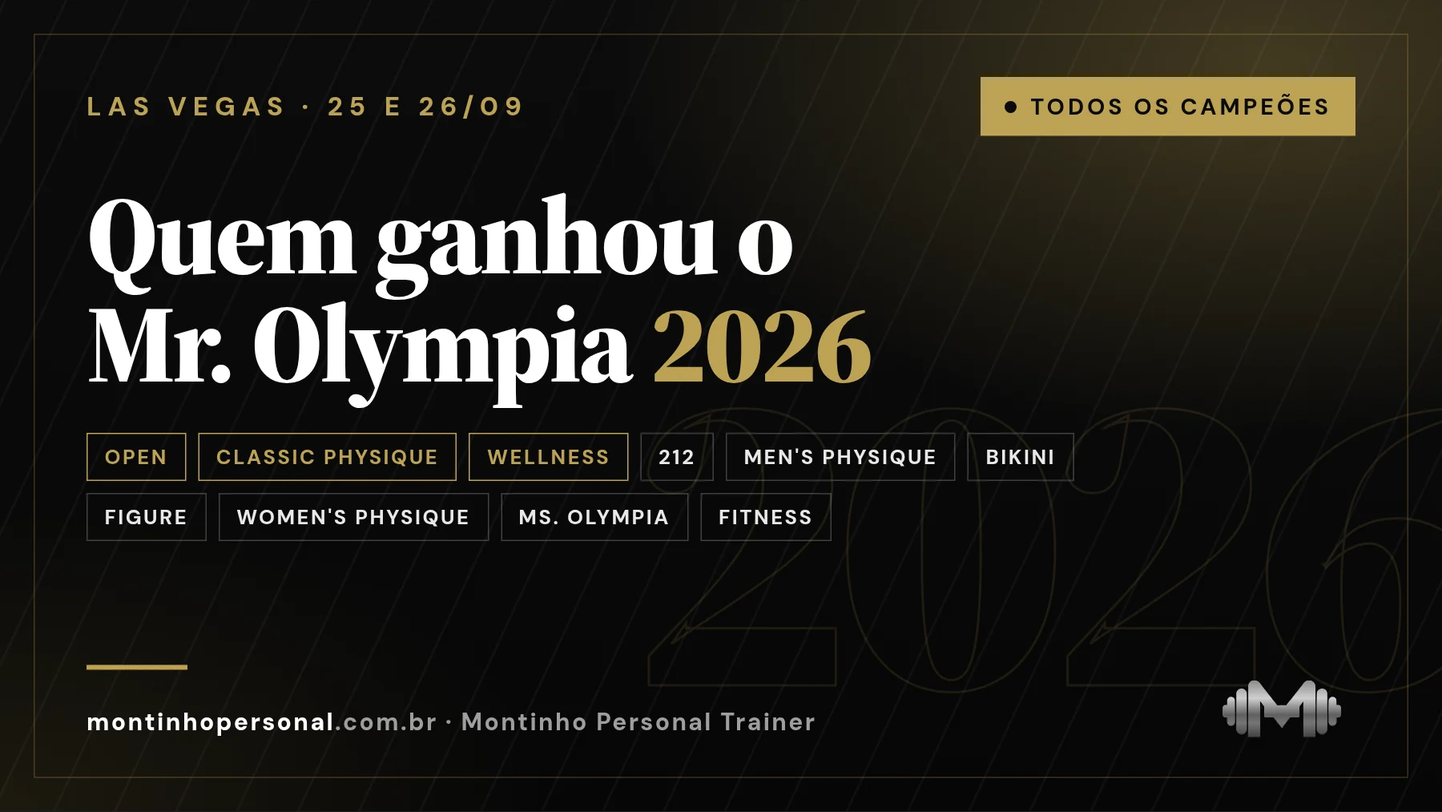
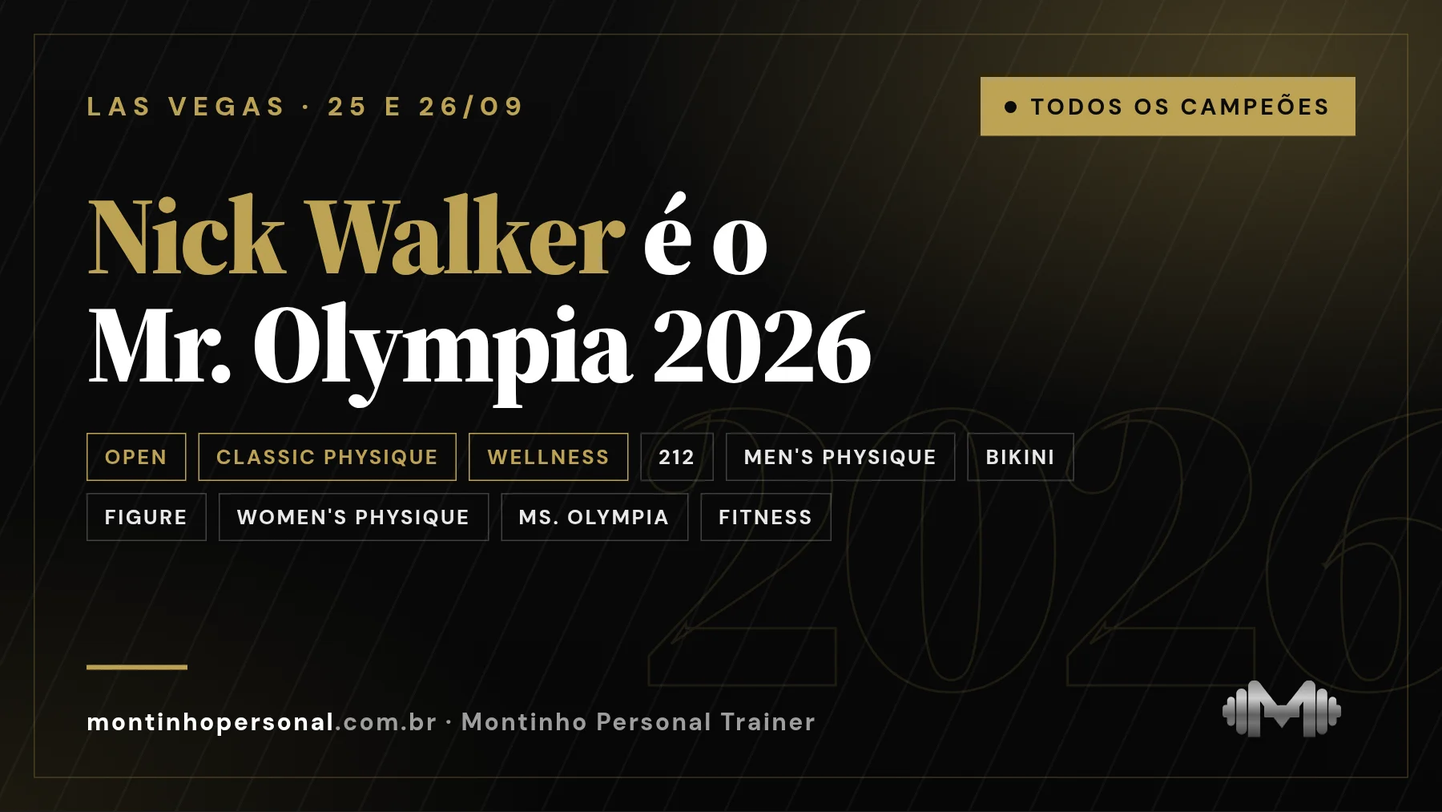
Olympia: Nick Walker é o Mr. Olympia 2026; Men's Physique, Bikini e Fitness decididos
Open: Walker 1º, Dauda 2º, Lunsford 3º (pódio com 2 fontes; 4º a 10º a
definir). Men's Physique: Ryan Terry tetracampeão. Bikini: Jasmine
Gonzalez. Fitness: Michelle Fredua-Mensah. Hub abre com a resposta e lista
todos os campeões. Capas do Open e do hub regeradas. Teste do Open usa a
categoria sem os flags reais.

Claude-Session: https://claude.ai/code/session_01FouRqAub4iiTyoNafYmiNy

Changed region(s): [[0.0622, 0.2142, 0.56, 0.3672], [0.4356, 0.3672, 0.6222, 0.4896]]

diff --git a/lib/olympia-2026.ts b/lib/olympia-2026.ts
@@ -219,22 +219,23 @@ ${FONTES}`,
   /* ───────────────── 3. HUB — QUEM GANHOU ───────────────── */
   {
     slug: "quem-ganhou-mr-olympia-2026",
-    title: "Quem ganhou o Mr. Olympia 2026? Veja campeões e resultados",
-    metaTitle: "Quem Ganhou o Mr. Olympia 2026? Todos os Campeões",
+    title: "Quem ganhou o Mr. Olympia 2026? Nick Walker e todos os campeões",
+    metaTitle: "Quem Ganhou o Mr. Olympia 2026? Nick Walker é o Campeão",
     metaDescription:
-      "Campeões e resultados do Mr. Olympia 2026, categoria por categoria: Open, Classic Physique, Wellness e 212. Atualizado durante as finais de 25 e 26/09.",
+      "Nick Walker é o Mr. Olympia 2026. Veja todos os campeões, categoria por categoria: Classic Physique, Wellness, 212, Men's Physique, Bikini e mais.",
     excerpt:
-      "Todos os campeões do Mr. Olympia 2026 reunidos numa página, atualizada durante as finais de sexta (25) e sábado (26), em Las Vegas.",
+      "Nick Walker venceu o Open e é o Mr. Olympia 2026. Todos os campeões do fim de semana em Las Vegas, categoria por categoria.",
     category: "Fisiculturismo",
     tipo: "noticia",
     date: DATA,
-    updatedAt: "2026-09-26",
+    updatedAt: "2026-09-27",
     readTime: "5 min",
     author: AUTOR,
     tags: ["Mr. Olympia 2026", "campeões", "resultados", "fisiculturismo", "Las Vegas"],
-    content: `<blockquote><p><strong>As seis categorias de sexta estão decididas: Classic Physique, 212, Wellness, Women's Physique, Figure e Ms. Olympia.</strong> O Open, título máximo, é hoje, sábado (26), com a final a partir das 23h (Brasília). Última verificação: 26 de setembro de 2026, 10h (Brasília).</p></blockquote>
-<p>O Mr. Olympia 2026 acontece de 24 a 27 de setembro em Las Vegas, com 322 atletas em 12 categorias — 58 deles brasileiros. As finais são <strong>nesta sexta (25) a partir das 22h</strong> e <strong>no sábado (26) a partir das 23h</strong>, no horário de Brasília. Esta página reúne todos os campeões e é atualizada categoria por categoria, à medida que os resultados oficiais saem.</p>
-${CAPA("quem-ganhou-mr-olympia-2026", "Capa: quem ganhou o Mr. Olympia 2026 — todos os campeões, categoria por categoria: Open, Classic Physique, Wellness, 212, Men's Physique, Bikini e mais")}
+    content: `<blockquote><p><strong>Resultado definido: Nick Walker é o Mr. Olympia 2026.</strong> Última verificação: 27 de setembro de 2026, 3h30 (Brasília).</p></blockquote>
+<p><strong>Nick Walker (EUA) é o campeão do Mr. Olympia 2026.</strong> Ele venceu o Open na noite de sábado, 26 de setembro, em Las Vegas, à frente de Samson Dauda e do atual campeão, Derek Lunsford, que ficou em 3º. É o primeiro Sandow da carreira de Walker, que tinha sido 6º em 2025.</p>
+<p>Os outros campeões do fim de semana: <strong>Niall Darwen</strong> (Classic Physique), <strong>Eduarda Bezerra</strong> (Wellness, bicampeã), <strong>Keone Pearson</strong> (212), <strong>Ryan Terry</strong> (Men's Physique, quarto título seguido), <strong>Jasmine Gonzalez</strong> (Bikini), <strong>Michelle Fredua-Mensah</strong> (Fitness), <strong>Natalia Abraham Coelho</strong> (Women's Physique), <strong>Andrea Shaw</strong> (Ms. Olympia) e <strong>Lola Montez</strong> (Figure). A tabela abaixo reúne todos.</p>
+${CAPA("quem-ganhou-mr-olympia-2026", "Capa: Nick Walker é o Mr. Olympia 2026 — todos os campeões, categoria por categoria: Open, Classic Physique, Wellness, 212, Men's Physique, Bikini e mais")}
 
 <h2>Campeões do Mr. Olympia 2026</h2>
 <table><thead><tr><th>Categoria</th><th>Final</th><th>Campeão(ã) 2026</th><th>Campeão(ã) 2025</th><th>Resultado</th></tr></thead><tbody>
@@ -244,11 +245,11 @@ ${CAPA("quem-ganhou-mr-olympia-2026", "Capa: quem ganhou o Mr. Olympia 2026 — 
 <tr><td>Figure</td><td>Sex 25/09, 22h</td><td><strong>Lola Montez</strong></td><td>Rhea Gayle (GBR)</td><td>Nesta página</td></tr>
 <tr><td>Women's Physique</td><td>Sex 25/09, 22h</td><td><strong>Natalia Abraham Coelho (EUA)</strong></td><td>Natalia Abraham Coelho (EUA)</td><td><a href="/blog/resultado-womens-physique-olympia-2026">Ver resultado</a></td></tr>
 <tr><td>Ms. Olympia</td><td>Sex 25/09, 22h</td><td><strong>Andrea Shaw (EUA)</strong></td><td>Andrea Shaw (EUA)</td><td>Nesta página</td></tr>
-<tr><td>Fitness</td><td>Sáb 26/09, 23h</td><td>A definir</td><td>Michelle Fredua-Mensah (GBR)</td><td>Nesta página</td></tr>
-<tr><td>Men's Physique</td><td>Sáb 26/09, 23h</td><td>A definir</td><td>Ryan Terry (GBR)</td><td><a href="/blog/resultado-mens-physique-olympia-2026">Ver resultado</a></td></tr>
-<tr><td>Bikini</td><td>Sáb 26/09, 23h</td><td>A definir</td><td>Maureen Blanquisco (PHI)</td><td><a href="/blog/resultado-bikini-olympia-2026">Ver resultado</a></td></tr>
+<tr><td>Fitness</td><td>Sáb 26/09, 23h</td><td><strong>Michelle Fredua-Mensah (GBR)</strong></td><td>Michelle Fredua-Mensah (GBR)</td><td>Nesta página</td></tr>
+<tr><td>Men's Physique</td><td>Sáb 26/09, 23h</td><td><strong>Ryan Terry (GBR)</strong></td><td>Ryan Terry (GBR)</td><td><a href="/blog/resultado-mens-physique-olympia-2026">Ver resultado</a></td></tr>
+<tr><td>Bikini</td><td>Sáb 26/09, 23h</td><td><strong>Jasmine Gonzalez</strong></td><td>Maureen Blanquisco (PHI)</td><td><a href="/blog/resultado-bikini-olympia-2026">Ver resultado</a></td></tr>
 <tr><td>Fit Model (estreia)</td><td>Sáb 26/09, 13h30*</td><td>A definir</td><td>—</td><td><a href="/blog/resultado-fit-model-olympia-2026">Ver resultado</a></td></tr>
-<tr><td>Mr. Olympia (Open)</td><td>Sáb 26/09, 23h</td><td>A definir</td><td>Derek Lunsford (EUA)</td><td><a href="/blog/resultado-mr-olympia-open-2026">Ver resultado</a></td></tr>
+<tr><td>Mr. Olympia (Open)</td><td>Sáb 26/09, 23h</td><td><strong>Nick Walker (EUA)</strong></td><td>Derek Lunsford (EUA)</td><td><a href="/blog/resultado-mr-olympia-open-2026">Ver resultado</a></td></tr>
 </tbody></table>
 <p><em>Wheelchair também é decidida no sábado e entra aqui com o resultado oficial. Horários são o início de cada sessão de finais. *A Fit Model tem prévias e final na sessão da manhã de sábado.</em></p>
 
@@ -273,20 +274,21 @@ ${CAPA("quem-ganhou-mr-olympia-2026", "Capa: quem ganhou o Mr. Olympia 2026 — 
 <p>Todos os brasileiros, por dia e categoria, com o resultado de cada um, estão no <a href="/blog/brasileiros-mr-olympia-2026">painel dos brasileiros no Mr. Olympia 2026</a>.</p>
 <ul>
 <li><strong>Ramon Dino</strong> — 3º lugar na Classic Physique 2026; campeão em 2025, primeiro brasileiro a vencer o Mr. Olympia. Pesou 102,5 kg na pesagem oficial (<a href="/blog/ramon-dino-peso-altura">peso, altura e limite</a>).</li>
-<li><strong>Eduarda Bezerra</strong> — atual campeã da Wellness, categoria em que o Brasil venceu todas as cinco edições desde 2021 e tem 19 das 40 inscritas em 2026.</li>
-<li><strong>Isa Pereira Nunes</strong> (campeã Wellness 2024) e <strong>Rayane Fogal</strong> (campeã do Arnold Ohio e do Arnold UK 2026) completam as principais candidatas brasileiras.</li>
+<li><strong>Eduarda Bezerra</strong> — bicampeã da Wellness em 2026; o Brasil venceu as seis edições da categoria desde 2021.</li>
+<li><strong>Isa Pereira Nunes</strong> — 2º lugar na Wellness 2026, na dobradinha brasileira.</li>
 </ul>
 
-<h2>Quem chega como favorito no Open</h2>
-<p>Derek Lunsford (EUA) defende o título de 2025, ano em que não perdeu nenhuma competição. Samson Dauda (campeão de 2024), Andrew Jacked (terceiro em 2025 e invicto desde então), Nick Walker e Martin Fitzwater são os mais citados para o primeiro chamado. Hadi Choopan, vice três vezes seguidas, desistiu em agosto. A análise completa está em <a href="/blog/resultado-mr-olympia-open-2026">resultado do Mr. Olympia Open 2026</a>.</p>
+<h2>Como foi o Open</h2>
+<p>Nick Walker (EUA) venceu, Samson Dauda ficou em 2º e Derek Lunsford, que defendia o título de 2025, em 3º. Hadi Choopan, vice três vezes seguidas, não competiu: desistiu em agosto por problemas de visto. A análise completa está em <a href="/blog/resultado-mr-olympia-open-2026">resultado do Mr. Olympia Open 2026</a>.</p>
 
 ${ACOMPANHE("quem-ganhou-mr-olympia-2026")}
 
 ${CTA_MONTINHO}
 ${FONTES}`,
     faq: [
-      { question: "Quem ganhou o Mr. Olympia 2026?", answer: "Ainda não foi decidido. A final do Mr. Olympia Open é no sábado, 26 de setembro, a partir das 23h (Brasília). O campeão entra nesta página assim que for anunciado." },
-      { question: "Quando são as finais do Mr. Olympia 2026?", answer: "Sexta-feira, 25/09, a partir das 22h (Classic Physique, Wellness, 212, Figure, Women's Physique e Ms. Olympia) e sábado, 26/09, a partir das 23h (Open, Men's Physique, Bikini e Fitness), no horário de Brasília." },
+      { question: "Quem ganhou o Mr. Olympia 2026?", answer: "Nick Walker, dos Estados Unidos, venceu o Open na noite de sábado, 26 de setembro, em Las Vegas. Samson Dauda ficou em 2º e Derek Lunsford, o campeão de 2025, em 3º." },
+      { question: "Quem são os campeões de todas as categorias?", answer: "Open: Nick Walker. Classic Physique: Niall Darwen. Wellness: Eduarda Bezerra. 212: Keone Pearson. Men's Physique: Ryan Terry. Bikini: Jasmine Gonzalez. Fitness: Michelle Fredua-Mensah. Women's Physique: Natalia Abraham Coelho. Ms. Olympia: Andrea Shaw. Figure: Lola Montez." },
+      { question: "Quando foram as finais do Mr. Olympia 2026?", answer: "Sexta-feira, 25/09, a partir das 22h (Classic Physique, Wellness, 212, Figure, Women's Physique e Ms. Olympia) e sábado, 26/09, a partir das 23h (Open, Men's Physique, Bikini e Fitness), no horário de Brasília." },
       { question: "Quantos brasileiros competem no Mr. Olympia 2026?", answer: "58, entre 322 atletas de 12 categorias. Os mais conhecidos são Ramon Dino, na Classic Physique, e Eduarda Bezerra, Isa Pereira Nunes e Rayane Fogal, na Wellness." },
       { question: "Onde ver os resultados do Mr. Olympia 2026?", answer: "Nesta página, atualizada categoria por categoria com base nos anúncios oficiais do Olympia e da IFBB Pro League, e nos artigos específicos de Classic Physique, Wellness e Open." },
     ],
@@ -356,37 +358,39 @@ ${FONTES}`,
   /* ───────────────── 5. OPEN ───────────────── */
   {
     slug: "resultado-mr-olympia-open-2026",
-    title: "Resultado Mr. Olympia Open 2026: campeão, Top 10 e classificação",
-    metaTitle: "Resultado Open Mr. Olympia 2026: Campeão e Top 10",
+    title: "Nick Walker é o Mr. Olympia 2026: resultado do Open e classificação",
+    metaTitle: "Nick Walker Vence o Mr. Olympia 2026: Resultado do Open",
     metaDescription:
-      "Classificação do Open do Mr. Olympia 2026: campeão do Sandow, top 10 e colocações. Final no sábado, 26/09, a partir das 23h (Brasília). Atualizado.",
+      "Nick Walker venceu o Mr. Olympia 2026, com Samson Dauda em 2º e Derek Lunsford em 3º. Veja a classificação do Open e como foi a final.",
     excerpt:
-      "A final do Mr. Olympia Open 2026 é no sábado, 26 de setembro. Derek Lunsford defende o título contra Samson Dauda, Andrew Jacked, Nick Walker e Martin Fitzwater.",
+      "Nick Walker venceu o Mr. Olympia 2026 em Las Vegas. Samson Dauda ficou em 2º e o campeão de 2025, Derek Lunsford, em 3º.",
     category: "Fisiculturismo",
     tipo: "noticia",
     date: DATA,
+    updatedAt: "2026-09-27",
     readTime: "4 min",
     author: AUTOR,
-    tags: ["Mr. Olympia 2026", "Open", "Derek Lunsford", "Samson Dauda", "resultado"],
-    content: `<blockquote><p><strong>O resultado do Mr. Olympia Open 2026 ainda não foi definido.</strong> As prévias aconteceram na sexta à noite; a final é hoje, sábado (26), a partir das 23h (Brasília). Nas prévias, as comparações principais reuniram <strong>Derek Lunsford, Samson Dauda, Andrew Jacked e Nick Walker</strong>, segundo a Fitness Volt e a RepOne — chamado não é resultado, e o campeão só sai na final. Última verificação: 26 de setembro de 2026, 10h (Brasília).</p></blockquote>
-<p>O título máximo do Mr. Olympia 2026 é decidido <strong>no sábado, 26 de setembro</strong>, com a final a partir das <strong>23h (horário de Brasília)</strong>, na Orleans Arena, em Las Vegas. As prévias do Open aconteceram na sessão de sexta à noite. <strong>Derek Lunsford</strong> (EUA) defende o título de 2025 contra 21 atletas na principal categoria da IFBB Pro League, a única sem limite de peso. A classificação completa entra aqui assim que for anunciada.</p>
-${CAPA("resultado-mr-olympia-open-2026", "Capa: resultado do Open do Mr. Olympia 2026 — quem leva o troféu Sandow; Derek Lunsford defende o título na final de sábado, 23h de Brasília")}
+    tags: ["Mr. Olympia 2026", "Open", "Nick Walker", "Samson Dauda", "Derek Lunsford", "resultado"],
+    content: `<blockquote><p><strong>Resultado definido: Nick Walker é o Mr. Olympia 2026.</strong> Última verificação: 27 de setembro de 2026, 3h30 (Brasília).</p></blockquote>
+<p><strong>Nick Walker venceu o Mr. Olympia 2026</strong> na noite de sábado, 26 de setembro, na Orleans Arena, em Las Vegas. O norte-americano, 6º colocado em 2025, conquistou o primeiro Sandow da carreira à frente de <strong>Samson Dauda</strong> (2º), campeão de 2024, e de <strong>Derek Lunsford</strong> (3º), que defendia o título. O Open é a principal categoria da IFBB Pro League e a única sem limite de peso.</p>
+${CAPA("resultado-mr-olympia-open-2026", "Capa: Nick Walker é o Mr. Olympia 2026 — resultado oficial do Open, com Samson Dauda em 2º e Derek Lunsford em 3º")}
 
 <h2>Classificação do Mr. Olympia Open 2026</h2>
-${TABELA_PENDENTE(10)}
-<p><em>Tabela preenchida após a final oficial. Enquanto isso, acompanhe a Classic Physique com Ramon Dino em <a href="/blog/resultado-classic-physique-mr-olympia-2026">resultado da Classic Physique 2026</a>.</em></p>
+<table><thead><tr><th>Posição</th><th>Atleta</th><th>País</th></tr></thead><tbody><tr><td>1º</td><td><strong>Nick Walker</strong></td><td>EUA</td></tr><tr><td>2º</td><td>Samson Dauda</td><td>Nigéria/Reino Unido</td></tr><tr><td>3º</td><td>Derek Lunsford</td><td>EUA</td></tr><tr><td>4º</td><td>A definir</td><td>—</td></tr><tr><td>5º</td><td>A definir</td><td>—</td></tr><tr><td>6º</td><td>A definir</td><td>—</td></tr><tr><td>7º</td><td>A definir</td><td>—</td></tr><tr><td>8º</td><td>A definir</td><td>—</td></tr><tr><td>9º</td><td>A definir</td><td>—</td></tr><tr><td>10º</td><td>A definir</td><td>—</td></tr></tbody></table>
+<p><em>O pódio foi confirmado por duas fontes independentes. Do 4º ao 10º lugar, as posições entram quando também estiverem confirmadas, incluindo a de Leandro Peres, único brasileiro no Open.</em></p>
 
-<h2>Os principais nomes</h2>
+<h2>Quem eram os favoritos</h2>
 <ul>
 <li><strong>Derek Lunsford (EUA)</strong> — campeão em 2023 e 2025. Em 2025 venceu Arnold Classic, Pittsburgh Pro e Olympia, e tornou-se o segundo atleta da história a recuperar o título depois de perdê-lo, ao lado de Jay Cutler.</li>
 <li><strong>Samson Dauda (Nigéria/Reino Unido)</strong> — campeão de 2024, caiu para quarto em 2025. Venceu o Europa Pro em 13 de setembro, onze dias antes de Las Vegas.</li>
 <li><strong>Andrew Jacked (Nigéria)</strong> — terceiro em 2025 e invicto desde então: Romania Pro 2025, Arnold Classic Ohio e Arnold Classic UK 2026.</li>
-<li><strong>Nick Walker (EUA)</strong> e <strong>Martin Fitzwater (EUA)</strong> — citados para o primeiro chamado pela imprensa especializada.</li>
+<li><strong>Nick Walker (EUA)</strong> — 6º em 2025, era citado para o primeiro chamado; saiu campeão.</li>
+<li><strong>Martin Fitzwater (EUA)</strong> — também citado para o grupo da frente pela imprensa especializada.</li>
 </ul>
-<p><strong>Hadi Choopan</strong> (Irã), vice por três anos seguidos, desistiu em 26 de agosto por problemas de visto — o que abre uma vaga no grupo da frente.</p>
+<p><strong>Hadi Choopan</strong> (Irã), vice por três anos seguidos, desistiu em 26 de agosto por problemas de visto — o que abriu uma vaga no grupo da frente.</p>
 
-<h2>Prévias na sexta, final no sábado</h2>
-<p>Diferente das outras categorias, o Open tem as prévias na <strong>sexta-feira à noite</strong> (na sessão que começa às 22h de Brasília) e a final no <strong>sábado</strong>. O primeiro chamado da sexta costuma antecipar quem briga pelo Sandow, o troféu do campeão; o resultado, só depois das poses e comparações finais de sábado.</p>
+<h2>Das prévias à final</h2>
+<p>O Open teve as prévias na <strong>sexta-feira à noite</strong> e a final no <strong>sábado</strong>. Nas prévias, as comparações principais reuniram Lunsford, Dauda, Andrew Jacked e Walker, segundo a Fitness Volt e a RepOne. Na final, Walker levou o Sandow, o troféu do campeão.</p>
 
 <h2>Open e Classic: a diferença</h2>
 <p>O Open não tem limite de peso: vence quem combina mais massa muscular com condicionamento e proporção. A Classic Physique, de Ramon Dino, limita o peso pela altura e valoriza linhas e estética. Um atleta de 1,81 m compete na Classic com no máximo 103 kg; no Open, os primeiros colocados passam com folga dos 120 kg. Os números da Classic estão em <a href="/blog/ramon-dino-peso-altura">peso, altura e limite da Classic Physique</a>.</p>
@@ -396,17 +400,17 @@ ${TABELA_PENDENTE(10)}
 <!--SHAPE:open-->
 
 <h2>Todas as categorias</h2>
-<p>Os campeões de sexta e sábado ficam reunidos em <a href="/blog/quem-ganhou-mr-olympia-2026">quem ganhou o Mr. Olympia 2026</a>, incluindo a <a href="/blog/resultado-wellness-mr-olympia-2026">Wellness, com as brasileiras</a>.</p>
+<p>Os campeões de sexta e sábado estão reunidos em <a href="/blog/quem-ganhou-mr-olympia-2026">quem ganhou o Mr. Olympia 2026</a>, incluindo a <a href="/blog/resultado-wellness-mr-olympia-2026">Wellness, com as brasileiras</a>.</p>
 
 ${ACOMPANHE("resultado-mr-olympia-open-2026")}
 
 ${CTA_MONTINHO}
 ${FONTES}`,
     faq: [
-      { question: "Quem ganhou o Open do Mr. Olympia 2026?", answer: "Ainda não foi definido. A final do Open é no sábado, 26 de setembro, a partir das 23h no horário de Brasília. O campeão e o top 10 entram nesta página assim que forem anunciados; os campeões das outras categorias ficam na página de todos os resultados do Olympia 2026." },
-      { question: "Quem ficou no Top 5 do Mr. Olympia 2026?", answer: "A classificação sai após a final de sábado. Os mais cotados para o grupo da frente são Derek Lunsford, Samson Dauda, Andrew Jacked, Nick Walker e Martin Fitzwater." },
-      { question: "Quando acontece a final do Mr. Olympia 2026?", answer: "Sábado, 26 de setembro de 2026, a partir das 23h (Brasília), 19h em Las Vegas, na Orleans Arena. As prévias do Open são na sexta à noite." },
-      { question: "Hadi Choopan compete no Olympia 2026?", answer: "Não. Vice em 2023, 2024 e 2025, ele anunciou a desistência em 26 de agosto de 2026 por problemas de visto." },
+      { question: "Quem ganhou o Open do Mr. Olympia 2026?", answer: "Nick Walker, dos Estados Unidos, na final de sábado, 26 de setembro, em Las Vegas. É o primeiro título dele no Mr. Olympia." },
+      { question: "Quem ficou no pódio do Mr. Olympia 2026?", answer: "Nick Walker (1º), Samson Dauda (2º) e Derek Lunsford (3º). As demais posições do top 10 entram nesta página quando confirmadas." },
+      { question: "Derek Lunsford perdeu o título?", answer: "Sim. Campeão em 2023 e 2025, Lunsford terminou em 3º em 2026." },
+      { question: "Hadi Choopan competiu no Olympia 2026?", answer: "Não. Vice em 2023, 2024 e 2025, ele anunciou a desistência em 26 de agosto de 2026 por problemas de visto." },
     ],
   },
 
@@ -706,26 +710,27 @@ ${FONTES}`,
   /* ───────────────── 10. RESULTADO MEN'S PHYSIQUE ───────────────── */
   {
     slug: "resultado-mens-physique-olympia-2026",
-    title: "Resultado Men's Physique Olympia 2026: campeão, Top 10 e brasileiros",
-    metaTitle: "Resultado Men's Physique Olympia 2026: Edvan Palmeira",
+    title: "Resultado Men's Physique Olympia 2026: Ryan Terry tetracampeão",
+    metaTitle: "Men's Physique Olympia 2026: Ryan Terry Tetracampeão",
     metaDescription:
-      "Quem ganhou a Men's Physique do Olympia 2026 e como ficaram Edvan Palmeira e os brasileiros. Final no sábado, 26/09, a partir das 23h de Brasília.",
+      "Ryan Terry venceu a Men's Physique do Olympia 2026 e igualou o recorde de quatro títulos. A colocação de Edvan Palmeira e dos brasileiros entra quando confirmada.",
     excerpt:
-      "A Men's Physique do Olympia 2026 é decidida no sábado, 26 de setembro. Ryan Terry defende o título; campeão, top 10 e brasileiros entram aqui.",
+      "Ryan Terry venceu a Men's Physique do Olympia 2026, o quarto título seguido, e igualou o recorde de Jeremy Buendia.",
     category: "Fisiculturismo",
     tipo: "noticia",
     date: DATA,
+    updatedAt: "2026-09-27",
     readTime: "3 min",
     author: AUTOR,
     tags: ["Mr. Olympia 2026", "Men's Physique", "Edvan Palmeira", "resultado", "fisiculturismo"],
-    content: `${AVISO_ONDA2("O resultado da Men's Physique do Olympia 2026 ainda não foi definido.")}
-<p><strong>A Men's Physique ainda não aconteceu.</strong> As prévias começam às <strong>13h30 de sábado, 26 de setembro</strong> (Brasília), e a final a partir das <strong>23h</strong>, em Las Vegas. Ryan Terry (Reino Unido) defende o tricampeonato. <strong>Edvan Palmeira</strong>, quinto colocado em 2025, é o brasileiro mais bem colocado no ano passado, num grupo de nove atletas listados pelo Brasil.</p>
+    content: `<blockquote><p><strong>Resultado definido: Ryan Terry é tetracampeão da Men's Physique.</strong> As demais colocações, incluindo a de Edvan Palmeira, entram quando confirmadas por duas fontes. Última verificação: 27 de setembro de 2026, 3h30 (Brasília).</p></blockquote>
+<p><strong>Ryan Terry (Reino Unido) venceu a Men's Physique do Olympia 2026</strong> na noite de sábado, 26 de setembro, em Las Vegas. É o quarto título seguido dele, o que iguala o recorde de Jeremy Buendia na categoria. <strong>Edvan Palmeira</strong>, quinto em 2025, era o brasileiro mais bem colocado no ano passado.</p>
 <!--OLYMPIA_CONTAGEM:mens-physique-->
-${CAPA("resultado-mens-physique-olympia-2026", "Capa: resultado da Men's Physique do Olympia 2026 — Ryan Terry defende o título e Edvan Palmeira lidera os brasileiros; final no sábado às 23h de Brasília")}
+${CAPA("resultado-mens-physique-olympia-2026", "Capa: resultado da Men's Physique do Olympia 2026 — Ryan Terry tetracampeão; colocação de Edvan Palmeira e dos brasileiros")}
 
 <h2 id="resultado">Resultado Men's Physique Olympia 2026</h2>
-${TABELA_PENDENTE(10)}
-<p><em>Tabela preenchida com o resultado oficial da IFBB Pro League, depois da final. Se só o top 5 for divulgado na noite, só o top 5 entra.</em></p>
+<table><thead><tr><th>Posição</th><th>Atleta</th><th>País</th></tr></thead><tbody><tr><td>1º</td><td><strong>Ryan Terry</strong></td><td>Reino Unido</td></tr><tr><td>2º</td><td>A definir</td><td>—</td></tr><tr><td>3º</td><td>A definir</td><td>—</td></tr><tr><td>4º</td><td>A definir</td><td>—</td></tr><tr><td>5º</td><td>A definir</td><td>—</td></tr><tr><td>6º</td><td>A definir</td><td>—</td></tr><tr><td>7º</td><td>A definir</td><td>—</td></tr><tr><td>8º</td><td>A definir</td><td>—</td></tr><tr><td>9º</td><td>A definir</td><td>—</td></tr><tr><td>10º</td><td>A definir</td><td>—</td></tr></tbody></table>
+<p><em>O campeão foi confirmado por duas fontes independentes; as outras posições entram quando também estiverem.</em></p>
 
 <h2>Como ficaram os brasileiros?</h2>
 <table><thead><tr><th>Atleta</th><th>Representação no roster</th><th>Resultado</th></tr></thead><tbody>
@@ -734,22 +739,16 @@ ${ATLETAS_BRASIL.filter((x) => x.categoria === "mens-physique").map((x) => `<tr>
 <p>Nove atletas aparecem no roster oficial representando o Brasil. <strong>Mauro Fialho</strong> é citado entre os brasileiros pela imprensa, mas está listado pela Espanha, e é assim que aparece na classificação oficial. Todos os brasileiros do fim de semana estão no <a href="/blog/brasileiros-mr-olympia-2026">painel dos brasileiros no Mr. Olympia 2026</a>.</p>
 
 <h2>Em que posição Edvan Palmeira ficou?</h2>
-<p><strong>Ainda não há resultado.</strong> O baiano Edvan Palmeira terminou em <strong>quinto</strong> em 2025, atrás de Ryan Terry, Ali Bilal, Brandon Hendrickson e Erin Banks. A colocação de 2026 entra aqui logo após a final de sábado.</p>
+<p><strong>A colocação de 2026 ainda não foi confirmada.</strong> O baiano Edvan Palmeira terminou em <strong>quinto</strong> em 2025, atrás de Ryan Terry, Ali Bilal, Brandon Hendrickson e Erin Banks. A posição dele entra aqui assim que houver duas fontes.</p>
 
 <h2>Quem ganhou a Men's Physique?</h2>
-<p><strong>Ainda não foi decidido.</strong> Os nomes mais citados pela imprensa especializada:</p>
+<p><strong>Ryan Terry (Reino Unido)</strong>, pela quarta vez seguida, igualando o recorde de Jeremy Buendia. Antes da final, os nomes mais citados eram:</p>
 <ul>
 <li><strong>Ryan Terry (Reino Unido)</strong> — campeão em 2023, 2024 e 2025. Um quarto título igualaria o recorde de Jeremy Buendia.</li>
 <li><strong>Ali Bilal (EUA)</strong> — vice em 2025.</li>
 <li><strong>Brandon Hendrickson (EUA)</strong> — terceiro em 2025 e ex-campeão da categoria.</li>
 <li><strong>Erin Banks (EUA)</strong> — campeão em 2022 e quarto em 2025.</li>
 </ul>
-
-<h2>Top 10</h2>
-<p>Ainda não definido. A tabela no topo recebe o top 10 oficial assim que a IFBB Pro League publicar.</p>
-
-<h2 id="como-foram-as-previas">Como foram as prévias?</h2>
-<p>As prévias ainda não aconteceram. Depois delas, esta seção vai registrar quem foi chamado para as primeiras comparações, sem transformar chamado em colocação.</p>
 
 <h2 id="horario">Horário da final</h2>
 <ul>
@@ -765,15 +764,15 @@ ${ATLETAS_BRASIL.filter((x) => x.categoria === "mens-physique").map((x) => `<tr>
 <p>É a categoria masculina com bermuda de praia e sem poses de fisiculturismo: os juízes avaliam o físico de frente e de costas, com foco em ombros largos, cintura fina, abdômen definido e proporção. As pernas não entram no julgamento. É a categoria de entrada mais popular entre os homens.</p>
 
 <h2>As outras categorias</h2>
-<p>Na mesma noite é decidido o <a href="/blog/resultado-mr-olympia-open-2026">Open, o título de Mr. Olympia</a>. Os campeões de todas as categorias estão em <a href="/blog/quem-ganhou-mr-olympia-2026">quem ganhou o Mr. Olympia 2026</a>.</p>
+<p>Na mesma noite foi decidido o <a href="/blog/resultado-mr-olympia-open-2026">Open: Nick Walker é o Mr. Olympia 2026</a>. Os campeões de todas as categorias estão em <a href="/blog/quem-ganhou-mr-olympia-2026">quem ganhou o Mr. Olympia 2026</a>.</p>
 
 ${ACOMPANHE("resultado-mens-physique-olympia-2026")}
 
 ${CTA_MASSA_PHYSIQUE}
 ${FONTES}`,
     faq: [
-      { question: "Quem ganhou a Men's Physique do Olympia 2026?", answer: "Ainda não foi decidido. A final é no sábado, 26 de setembro, a partir das 23h (Brasília). Ryan Terry defende o título, e esta página é atualizada com o resultado oficial." },
-      { question: "Em que posição Edvan Palmeira ficou?", answer: "Ainda não há resultado de 2026. Em 2025, Edvan Palmeira ficou em quinto na Men's Physique." },
+      { question: "Quem ganhou a Men's Physique do Olympia 2026?", answer: "Ryan Terry, do Reino Unido, na final de sábado, 26 de setembro. É o quarto título seguido dele, igualando o recorde de Jeremy Buendia." },
+      { question: "Em que posição Edvan Palmeira ficou?", answer: "A colocação de 2026 ainda não foi confirmada por duas fontes. Em 2025, Edvan Palmeira ficou em quinto na Men's Physique." },
       { question: "Quantos brasileiros competem na Men's Physique 2026?", answer: "Nove atletas estão no roster oficial pelo Brasil. Mauro Fialho, citado entre os brasileiros, aparece pela Espanha." },
     ],
   },
@@ -781,29 +780,30 @@ ${FONTES}`,
   /* ───────────────── 11. RESULTADO BIKINI ───────────────── */
   {
     slug: "resultado-bikini-olympia-2026",
-    title: "Resultado Bikini Olympia 2026: campeã, Top 10 e Elisa Pecini",
-    metaTitle: "Resultado Bikini Olympia 2026: Campeã, Top 10 e Isa Pecini",
+    title: "Resultado Bikini Olympia 2026: Jasmine Gonzalez é a campeã",
+    metaTitle: "Bikini Olympia 2026: Jasmine Gonzalez Campeã",
     metaDescription:
-      "Quem ganhou a Bikini Olympia 2026 e como ficaram Elisa (Isa) Pecini, Nivea Campos e Bruna Toigo. Final no sábado, 26/09, a partir das 23h de Brasília.",
+      "Jasmine Gonzalez venceu a Bikini Olympia 2026, o primeiro título dela. As colocações de Isa Pecini, Nivea Campos e Bruna Toigo entram quando confirmadas.",
     excerpt:
-      "A Bikini Olympia 2026 é decidida no sábado, 26 de setembro. Maureen Blanquisco defende o título; campeã, top 10 e as três brasileiras entram aqui.",
+      "Jasmine Gonzalez venceu a Bikini Olympia 2026 e conquistou o primeiro título. A campeã de 2025, Maureen Blanquisco, perdeu a coroa.",
     category: "Fisiculturismo",
     tipo: "noticia",
     date: DATA,
+    updatedAt: "2026-09-27",
     readTime: "3 min",
     author: AUTOR,
     tags: ["Mr. Olympia 2026", "Bikini", "Elisa Pecini", "resultado", "fisiculturismo"],
-    content: `${AVISO_ONDA2("O resultado da Bikini Olympia 2026 ainda não foi definido.")}
-<p><strong>A Bikini ainda não aconteceu.</strong> As prévias começam às <strong>13h30 de sábado, 26 de setembro</strong> (Brasília), e a final a partir das <strong>23h</strong>, em Las Vegas. Maureen Blanquisco (Filipinas) defende o título. O Brasil tem três atletas: <strong>Elisa Pecini</strong>, a Isa Pecini, campeã em 2019, <strong>Nivea Campos</strong> e <strong>Bruna Toigo</strong>.</p>
+    content: `<blockquote><p><strong>Resultado definido: Jasmine Gonzalez é a campeã da Bikini Olympia 2026.</strong> As demais colocações, incluindo as das três brasileiras, entram quando confirmadas por duas fontes. Última verificação: 27 de setembro de 2026, 3h30 (Brasília).</p></blockquote>
+<p><strong>Jasmine Gonzalez (EUA) venceu a Bikini Olympia 2026</strong> na noite de sábado, 26 de setembro, em Las Vegas, e conquistou o primeiro título dela. A campeã de 2025, Maureen Blanquisco (Filipinas), perdeu a coroa. O Brasil teve três atletas: <strong>Elisa Pecini</strong>, a Isa Pecini, campeã em 2019, <strong>Nivea Campos</strong> e <strong>Bruna Toigo</strong>.</p>
 <!--OLYMPIA_CONTAGEM:bikini-->
-${CAPA("resultado-bikini-olympia-2026", "Capa: resultado da Bikini Olympia 2026 — Maureen Blanquisco defende o título e Elisa Pecini lidera as três brasileiras; final no sábado às 23h de Brasília")}
+${CAPA("resultado-bikini-olympia-2026", "Capa: resultado da Bikini Olympia 2026 — Jasmine Gonzalez campeã; colocação de Elisa Pecini e das brasileiras")}
 
 <h2 id="resultado">Resultado Bikini Olympia 2026</h2>
-${TABELA_PENDENTE(10)}
-<p><em>Tabela preenchida com o resultado oficial da IFBB Pro League, depois da final. Se só o top 5 for divulgado na noite, só o top 5 entra.</em></p>
+<table><thead><tr><th>Posição</th><th>Atleta</th><th>País</th></tr></thead><tbody><tr><td>1º</td><td><strong>Jasmine Gonzalez</strong></td><td>EUA</td></tr><tr><td>2º</td><td>A definir</td><td>—</td></tr><tr><td>3º</td><td>A definir</td><td>—</td></tr><tr><td>4º</td><td>A definir</td><td>—</td></tr><tr><td>5º</td><td>A definir</td><td>—</td></tr><tr><td>6º</td><td>A definir</td><td>—</td></tr><tr><td>7º</td><td>A definir</td><td>—</td></tr><tr><td>8º</td><td>A definir</td><td>—</td></tr><tr><td>9º</td><td>A definir</td><td>—</td></tr><tr><td>10º</td><td>A definir</td><td>—</td></tr></tbody></table>
+<p><em>A campeã foi confirmada por duas fontes independentes; as outras posições entram quando também estiverem.</em></p>
 
 <h2>Em que posição Elisa Pecini ficou?</h2>
-<p><strong>Ainda não há resultado.</strong> Elisa Pecini, conhecida como Isa Pecini, venceu a Bikini Olympia em 2019 e tem vaga garantida por esse título. A colocação de 2026 entra aqui logo após a final de sábado.</p>
+<p><strong>A colocação de 2026 ainda não foi confirmada.</strong> Elisa Pecini, conhecida como Isa Pecini, venceu a Bikini Olympia em 2019 e tem vaga garantida por esse título. A posição dela entra aqui assim que houver duas fontes.</p>
 
 <h2>Como ficaram as brasileiras?</h2>
 <table><thead><tr><th>Atleta</th><th>Representação no roster</th><th>Resultado</th></tr></thead><tbody>
@@ -812,13 +812,7 @@ ${ATLETAS_BRASIL.filter((x) => x.categoria === "bikini").map((x) => `<tr><td>${x
 <p>As três aparecem no roster oficial representando o Brasil. Os brasileiros de todas as categorias estão no <a href="/blog/brasileiros-mr-olympia-2026">painel Brasil do Mr. Olympia 2026</a>.</p>
 
 <h2>Quem ganhou a Bikini Olympia 2026?</h2>
-<p><strong>Ainda não foi decidido.</strong> Em 2025, o pódio foi Maureen Blanquisco, Ashlyn Little (EUA) e Jasmine Gonzalez (EUA). As três voltam como referências da categoria.</p>
-
-<h2>Top 10</h2>
-<p>Ainda não definido. A tabela no topo recebe o top 10 oficial assim que a IFBB Pro League publicar.</p>
-
-<h2 id="como-foram-as-previas">Como foram as prévias?</h2>
-<p>As prévias ainda não aconteceram. Depois delas, esta seção vai registrar quem foi chamada para as primeiras comparações, sem transformar chamado em colocação.</p>
+<p><strong>Jasmine Gonzalez (EUA)</strong>, terceira colocada em 2025, conquistou o primeiro título dela. Em 2025, o pódio tinha sido Maureen Blanquisco, Ashlyn Little e Jasmine Gonzalez.</p>
 
 <h2 id="horario">Horário da final</h2>
 <ul>
@@ -834,15 +828,15 @@ ${ATLETAS_BRASIL.filter((x) => x.categoria === "bikini").map((x) => `<tr><td>${x
 <p>É a categoria feminina com ênfase em forma geral, equilíbrio entre parte superior e inferior, condicionamento leve e apresentação: postura, caminhada e confiança no palco contam. Não há poses de contração muscular como no fisiculturismo. A Fit Model, que estreia no Olympia neste ano, pede ainda menos massa e definição: veja a <a href="/blog/resultado-fit-model-olympia-2026">diferença entre Fit Model e Bikini</a>.</p>
 
 <h2>As outras categorias</h2>
-<p>Na mesma noite saem a <a href="/blog/resultado-mens-physique-olympia-2026">Men's Physique</a> e o <a href="/blog/resultado-mr-olympia-open-2026">Open</a>. As campeãs e os campeões de todas as categorias estão em <a href="/blog/quem-ganhou-mr-olympia-2026">quem ganhou o Mr. Olympia 2026</a>.</p>
+<p>Na mesma noite saíram a <a href="/blog/resultado-mens-physique-olympia-2026">Men's Physique</a> e o <a href="/blog/resultado-mr-olympia-open-2026">Open</a>. As campeãs e os campeões de todas as categorias estão em <a href="/blog/quem-ganhou-mr-olympia-2026">quem ganhou o Mr. Olympia 2026</a>.</p>
 
 ${ACOMPANHE("resultado-bikini-olympia-2026")}
 
 ${CTA_MONTINHO}
 ${FONTES}`,
     faq: [
-      { question: "Quem ganhou a Bikini Olympia 2026?", answer: "Ainda não foi decidido. A final é no sábado, 26 de setembro, a partir das 23h (Brasília). Maureen Blanquisco defende o título, e esta página é atualizada com o resultado oficial." },
-      { question: "Isa Pecini ganhou a Bikini Olympia?", answer: "Em 2026, ainda não há resultado. Elisa (Isa) Pecini foi campeã da Bikini Olympia em 2019." },
+      { question: "Quem ganhou a Bikini Olympia 2026?", answer: "Jasmine Gonzalez, dos Estados Unidos, na final de sábado, 26 de setembro. É o primeiro título dela na Bikini Olympia." },
+      { question: "Isa Pecini ganhou a Bikini Olympia?", answer: "Em 2026, não: a campeã foi Jasmine Gonzalez, e a colocação de Isa Pecini entra aqui quando confirmada. Ela foi campeã da Bikini Olympia em 2019." },
       { question: "Quais brasileiras competem na Bikini Olympia 2026?", answer: "Elisa Pecini, Nivea Campos e Bruna Toigo, todas listadas pelo Brasil no roster oficial." },
     ],
   },

diff --git a/lib/olympia-brasil.ts b/lib/olympia-brasil.ts
@@ -70,10 +70,10 @@ export const CATEGORIAS: CategoriaOlympia[] = [
   { id: "ms-olympia", nome: "Ms. Olympia", dia: "sexta", previas: "sextaPrevias", final: "sextaFinais", temBrasileiro: true, previasConcluidas: true, resultadoOficial: true, campeao: "Andrea Shaw" },
   { id: "figure", nome: "Figure", dia: "sexta", previas: "sextaPrevias", final: "sextaFinais", previasConcluidas: true, resultadoOficial: true, campeao: "Lola Montez" },
   // O Open tem as prévias na sessão de sexta à noite e a final no sábado.
-  { id: "open", nome: "Open (Mr. Olympia)", dia: "sabado", previas: "sextaFinais", final: "sabadoFinais", artigo: "resultado-mr-olympia-open-2026", temBrasileiro: true },
-  { id: "mens-physique", nome: "Men's Physique", dia: "sabado", previas: "sabadoPrevias", final: "sabadoFinais", artigo: "resultado-mens-physique-olympia-2026", temBrasileiro: true },
-  { id: "bikini", nome: "Bikini", dia: "sabado", previas: "sabadoPrevias", final: "sabadoFinais", artigo: "resultado-bikini-olympia-2026", temBrasileiro: true },
-  { id: "fitness", nome: "Fitness", dia: "sabado", previas: "sabadoPrevias", final: "sabadoFinais" },
+  { id: "open", nome: "Open (Mr. Olympia)", dia: "sabado", previas: "sextaFinais", final: "sabadoFinais", artigo: "resultado-mr-olympia-open-2026", temBrasileiro: true, previasConcluidas: true, resultadoOficial: true, campeao: "Nick Walker" },
+  { id: "mens-physique", nome: "Men's Physique", dia: "sabado", previas: "sabadoPrevias", final: "sabadoFinais", artigo: "resultado-mens-physique-olympia-2026", temBrasileiro: true, previasConcluidas: true, resultadoOficial: true, campeao: "Ryan Terry" },
+  { id: "bikini", nome: "Bikini", dia: "sabado", previas: "sabadoPrevias", final: "sabadoFinais", artigo: "resultado-bikini-olympia-2026", temBrasileiro: true, previasConcluidas: true, resultadoOficial: true, campeao: "Jasmine Gonzalez" },
+  { id: "fitness", nome: "Fitness", dia: "sabado", previas: "sabadoPrevias", final: "sabadoFinais", previasConcluidas: true, resultadoOficial: true, campeao: "Michelle Fredua-Mensah" },
   // Estreia no Olympia: prévias E final na sessão de sábado de manhã.
   { id: "fit-model", nome: "Fit Model", dia: "sabado", previas: "sabadoPrevias", final: "sabadoPrevias", artigo: "resultado-fit-model-olympia-2026", temBrasileiro: true, sessaoUnica: true },
 ];

diff --git a/scripts/olympia-agenda-test.ts b/scripts/olympia-agenda-test.ts
@@ -26,7 +26,7 @@ ok(alvo(c212, at("2026-09-25T23:00:00-03:00")) === null, "nas finais não há co
 ok(fase(c212, at("2026-09-26T02:00:00-03:00")) === "final", "sem resultado oficial, não encerra sozinha");
 ok(fase({ ...c212, resultadoOficial: true }, at("2026-09-25T10:00:00-03:00")) === "encerrada", "resultado oficial encerra");
 
-const open = categoria("open");
+const open = { ...categoria("open"), previasConcluidas: undefined, resultadoOficial: undefined, campeao: undefined };
 ok(fase(open, at("2026-09-25T22:30:00-03:00")) === "previas", "Open: prévias na sessão de sexta à noite");
 
 // Fit Model: sessão única — o bloco começar não põe a categoria no palco
